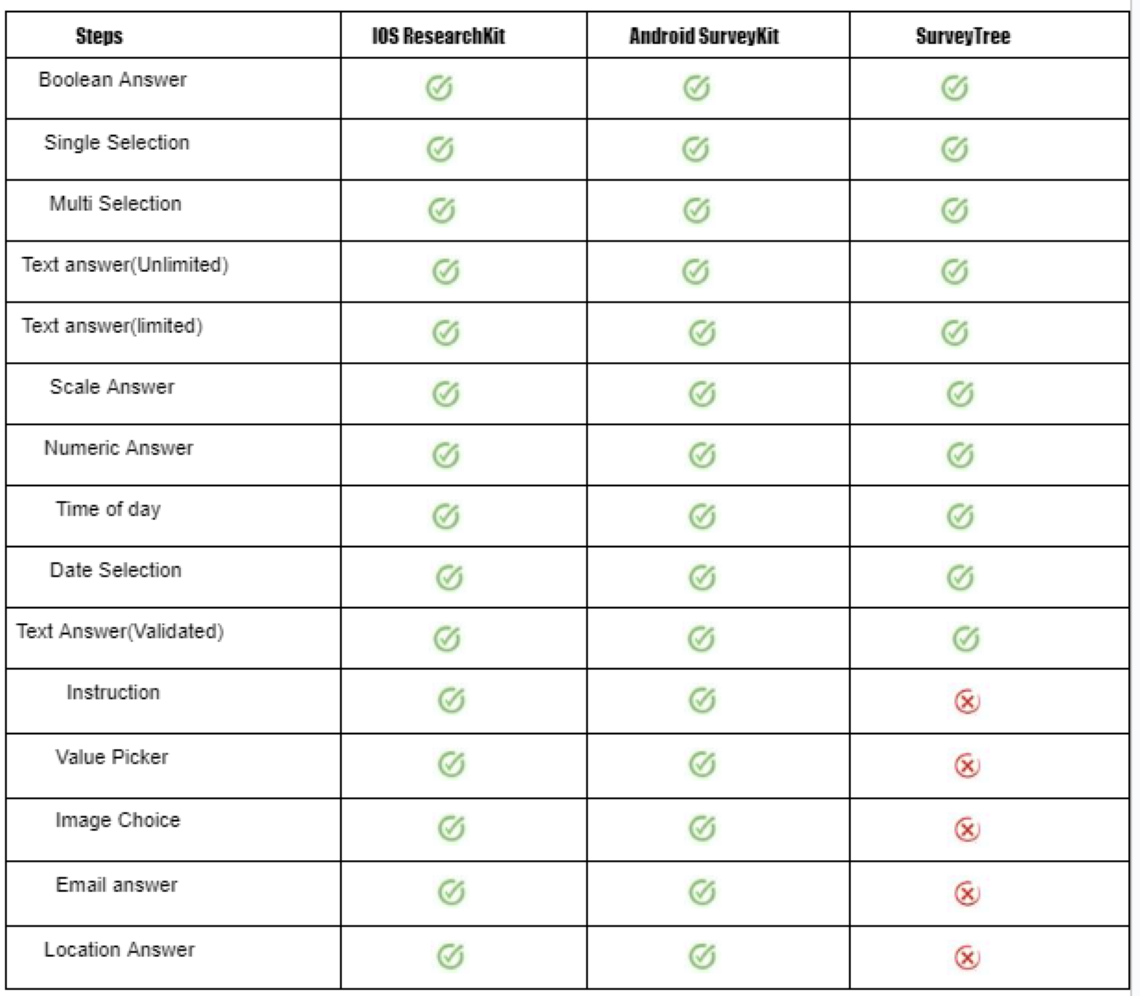
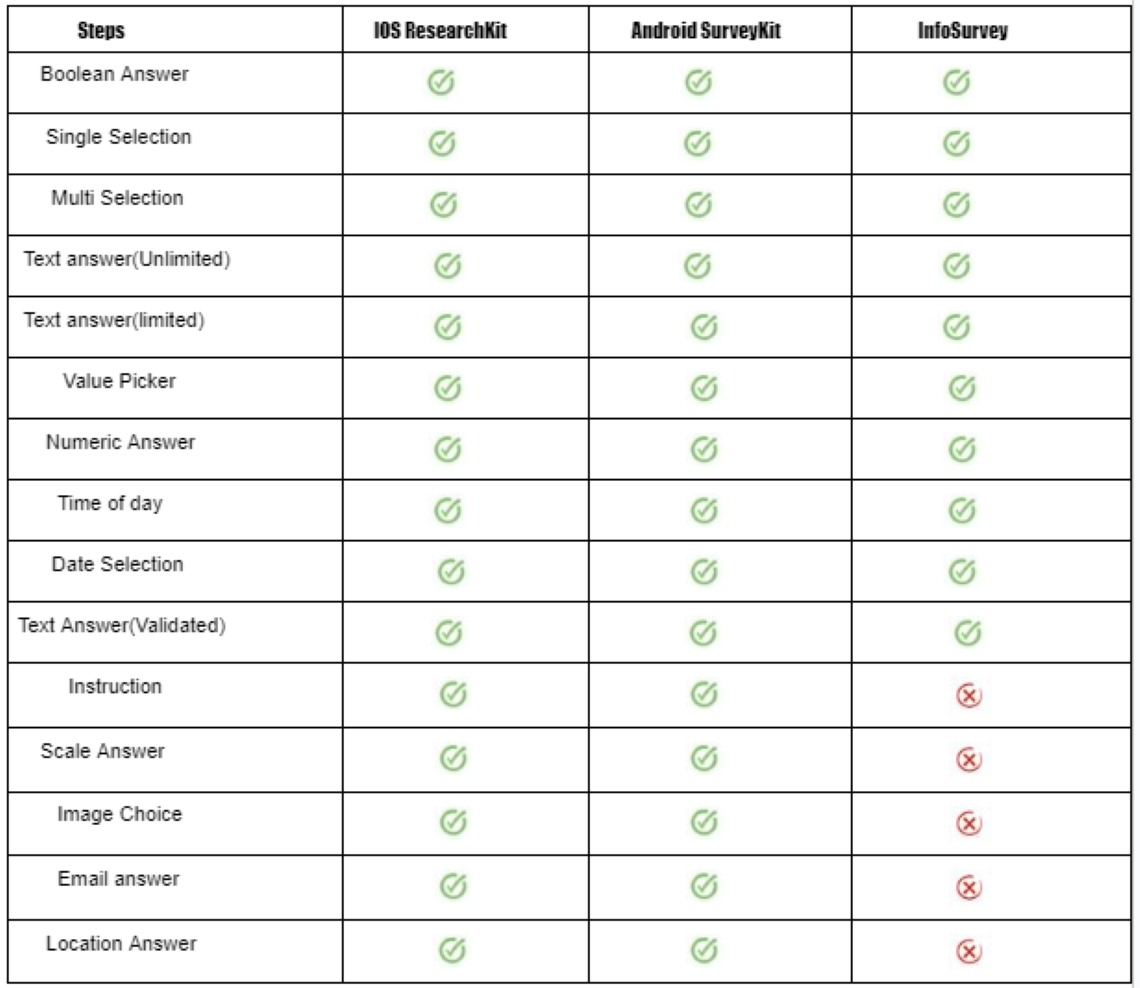
survey images in readme

Changed region(s): [[0.0, 0.0, 1.0, 1.0]]

diff --git a/README.md b/README.md
@@ -2,9 +2,9 @@
 <img src="https://github.com/Paccore-Prototypes/surveyTree/blob/feature-base/SurveyTree/assets/images/infoswift%20corp.jpeg?raw=true"height="200">
 
 
-# SurveyTree: Create beautiful surveys with Flutter (inspired by [iOS ResearchKit Surveys](https://researchkit.org/docs/docs/Survey/CreatingSurveys.html))
+#   InfoSurvey: Create beautiful surveys with Flutter (inspired by [iOS ResearchKit Surveys](https://researchkit.org/docs/docs/Survey/CreatingSurveys.html))
 
-Survey kits, also known as survey platforms or survey software, are tools used to design, distribute, and analyze surveys. These tools are used by individuals, businesses, organizations, and researchers to collect data from respondents on various topics.Users start by designing their survey questionnaires using the survey kit's interface. This involves creating various types of questions such as multiple-choice, open-ended, Likert scale, rating scale, etc.
+InfoSurvey, also known as survey platforms or survey software, are tools used to design, distribute, and analyze surveys. These tools are used by individuals, businesses, organizations, and researchers to collect data from respondents on various topics.Users start by designing their survey questionnaires using the survey kit's interface. This involves creating various types of questions such as multiple-choice, open-ended, Likert scale, rating scale, etc.
 This is an early version and work in progress. Do not hesitate to give feedback, ideas or improvements via an issue.
 # flowchat
 <p align="center">
@@ -94,18 +94,17 @@ A working example project can be found [HERE](example/)
 ### Start the survey
 All that's left is to insert the survey in the widget tree and enjoy.🎉🎊
 ```dart
-Scaffold(
-body: SurveyTree(
-treeModel: Model!, 
-customButton: ElevatedButton(
-onPressed: () {
-// Your onPressed callback function
-},
-child: Text('Next'),
-),
-tileListColor: Colors.blue,
-),
-);
+InfoSurvey(
+  treeModel: model!,
+  tileListColor: Colors.blueGrey.shade200,
+  showScoreWidget: true,
+  surveyResult: (healthScore, answersMap) {
+   print('Health Score: $healthScore');
+   print('Answers Map: $answersMap');
+  },
+)
+
+
 
 ```
 
